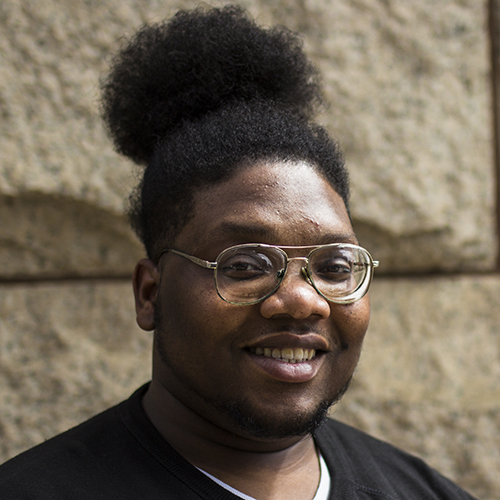
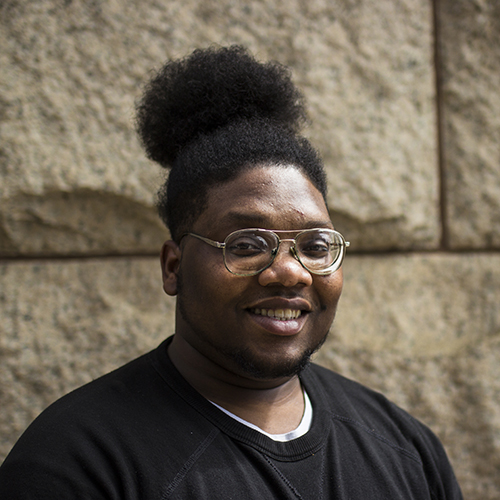
updated ryan photo and added 18 out fo 21 resumes

diff --git a/src/pages/Bootcamp/Roster/rosterMembersConfig.js b/src/pages/Bootcamp/Roster/rosterMembersConfig.js
@@ -58,7 +58,7 @@ import EngridImage from './RosterMemberImages/engrid.jpg';
 import VaughnImage from './RosterMemberImages/vaughn.jpg';
 import MyrahaImage from './RosterMemberImages/myraha.jpg';
 import JoshLBImage from './RosterMemberImages/josh_lb.jpg';
-// import JasonImage from './RosterMemberImages/jason.jpg';
+import JasonImage from './RosterMemberImages/jason.jpg';
 import VictorImage from './RosterMemberImages/victor.jpg';
 import DanicaImage from './RosterMemberImages/danica.jpg';
 import ZemamImage from './RosterMemberImages/zemam.jpg';
@@ -67,11 +67,11 @@ import SandraImage from './RosterMemberImages/sandra.jpg';
 import OmarImage from './RosterMemberImages/omar.jpg';
 import FernandoImage from './RosterMemberImages/fernando.jpg';
 import StandyImage from './RosterMemberImages/standy.jpg';
-// import TyriekImage from './RosterMemberImages/tyriek.jpg';
+import TyriekImage from './RosterMemberImages/tyriek.jpg';
 import RakimImage from './RosterMemberImages/rakim.jpg';
 import KeithImage from './RosterMemberImages/keith.jpg';
 import CristianImage from './RosterMemberImages/cristian.jpg';
-// import AlainImage from './RosterMemberImages/alain.jpg';
+import AlainImage from './RosterMemberImages/alain.jpg';
 import AliaImage from './RosterMemberImages/alia.jpg';
 import AllisonImage from './RosterMemberImages/allison.jpg';
 import EdwinImage from './RosterMemberImages/edwin.jpg';
@@ -85,7 +85,7 @@ export default [
     image: AliaImage,
     linkedin: 'https://www.linkedin.com/in/alia-abdulahi-188364155/',
     github: 'https://github.com/aliaabdulahi',
-    resume: '',
+    resume: 'https://cdn2.hubspot.net/hubfs/2253693/resumes/2018%20B/resume_aliaabdulahi.pdf',
     bio: `My first experience with technology was through my father, who taught himself to code and made 
     a game for me and my siblings to learn his native language. Technology, for me, has always been a tool 
     for communication, access, imagination, innovation, and belonging. As a professional storyteller with 
@@ -102,7 +102,7 @@ export default [
     image: JoshLBImage,
     linkedin: 'https://www.linkedin.com/in/joshlobaptista',
     github: 'https://github.com/joshlobaptista',
-    resume: '',
+    resume: 'https://cdn2.hubspot.net/hubfs/2253693/resumes/2018%20B/resume_joshualopesbaptista.pdf',
     bio: `Living in household with ten other children meant that competition was the way of life. 
     From who could finish dinner the fastest to who could hold their breath the longest. 
     Together we learned to work individually and as a team. During my senior year in high school, 
@@ -137,7 +137,7 @@ export default [
     image: OmarImage,
     linkedin: 'https://www.linkedin.com/in/oeaugustin',
     github: 'https://github.com/oeaugustin',
-    resume: '',
+    resume: 'https://cdn2.hubspot.net/hubfs/2253693/resumes/2018%20B/resume_omaraugustin.pdf',
     bio: `Creating striking visual experiences has always been a passion of mine. Growing up, 
     I continually exhausted my school's art curricula. Drawing, painting, photography, sculpture, 
     furniture and graphic design were a few of the media I utilized to express myself. In college, 
@@ -149,12 +149,12 @@ export default [
   },
   {
     url: '/bootcamp/roster/dee-daniels',
-    portfolioUrl: '',
+    portfolioUrl: 'deedaniels.co',
     name: 'Dee Daniels',
     image: DanicaImage,
     linkedin: 'https://www.linkedin.com/in/dee-daniels-29768839/',
     github: 'https://github.com/DeeDaniels',
-    resume: '',
+    resume: 'https://cdn2.hubspot.net/hubfs/2253693/resumes/2018%20B/resume_deedaniels.pdf',
     bio: `Dee Daniels is a Boston University Graduate with a B.S. in Journalism and a minor in 
     French Language. In the past few years, she has honed her leadership and collaboration skills 
     through coordinating and planning art festivals, music events, and working as the Program Coordinator 
@@ -170,7 +170,7 @@ export default [
     image: EdwinImage,
     linkedin: 'https://www.linkedin.com/in/edwinnaranjo',
     github: 'https://github.com/ENaranjo95',
-    resume: '',
+    resume: 'https://cdn2.hubspot.net/hubfs/2253693/resumes/2018%20B/resume_edwinnaranjo.pdf',
     bio: `I grew up in the states but I am known to be a proud Ecuadorian. My parents brought 
     culture, heart and vision into my life and I carried those values to pursue a higher degree 
     in business at the University of Massachusetts Lowell (UML). I was an active leader in the 
@@ -187,7 +187,7 @@ export default [
     image: ZemamImage,
     linkedin: 'https://www.linkedin.com/in/zemam-beyene/',
     github: 'https://github.com/beyenez',
-    resume: '',
+    resume: 'https://cdn2.hubspot.net/hubfs/2253693/resumes/2018%20B/resume_zemambeyene.pdf',
     bio: `I’m a recent college graduate from the University of Massachusetts Boston, with a major in 
     business management and a concentration in marketing.  In college, I focused on using data analytics 
     to develop techniques for business marketing decisions in order to improve businesses. 
@@ -204,7 +204,7 @@ export default [
     image: CristianImage,
     linkedin: 'https://www.linkedin.com/in/cristian-morales-7b9a0590/',
     github: 'https://github.com/cristianpmorales',
-    resume: '',
+    resume: 'https://cdn2.hubspot.net/hubfs/2253693/resumes/2018%20B/resume_cristianmorales.pdf',
     bio: `As a Business Systems Associate at Harvard University, I learned to identify user issues 
     and how to test to deliver the best product to a customer. In volunteering with my local organization 
     NUBE, I have represented neighbors that have been displaced by different legislations. I helped them by 
@@ -220,7 +220,7 @@ export default [
     image: EngridImage,
     linkedin: 'https://www.linkedin.com/in/engridhernandez/',
     github: 'https://github.com/ehcodes',
-    resume: '',
+    resume: 'https://cdn2.hubspot.net/hubfs/2253693/resumes/2018%20B/resume_engridhernandez.pdf',
     bio: `Growing up, my dad was a tech buff who worked in IT and we had a lot of niche gadgets 
     in the house. I remember him building himself a PC and not giving him a moment of silence 
     through all the questions I had for him. I wanted to know why each piece was needed, what 
@@ -238,7 +238,7 @@ export default [
     image: VaughnImage,
     linkedin: 'https://www.linkedin.com/in/vaughn-scarlett/',
     github: 'https://github.com/Vscarlett',
-    resume: '',
+    resume: 'https://cdn2.hubspot.net/hubfs/2253693/resumes/2018%20B/resume_vaughnscarlett.pdf',
     bio: `When I was a kid I was into technology and cars. I went to Universal technical Institute 
     to become an Automotive Technician. I graduated with honors and went into the workforce. 
     I spent the past 6 years being a technician in many dealerships, and found out that the 
@@ -255,7 +255,7 @@ export default [
     image: SandraImage,
     linkedin: 'https://www.linkedin.com/in/sandraattar',
     github: 'https://github.com/sandraattar',
-    resume: '',
+    resume: 'https://cdn2.hubspot.net/hubfs/2253693/resumes/2018%20B/resume_sandraattar.pdf',
     bio: `I am fortunate enough to call myself a citizen of the beautiful country of Syria. 
     Despite my challenges as an immigrant, I have learned to positively transform my journey. 
     Last fall, I began coaching elementary school students at Hatch Coding. One of my 
@@ -281,12 +281,12 @@ export default [
   },
   {
     url: '/bootcamp/roster/ryan-tillman-french',
-    portfolioUrl: '',
+    portfolioUrl: 'http://ryantfrench.bitballoon.com/',
     name: 'Ryan Tillman-French',
     image: RyanImage,
     linkedin: 'https://www.linkedin.com/in/ryantf/',
     github: 'https://github.com/ResilientRyry',
-    resume: '',
+    resume: 'https://cdn2.hubspot.net/hubfs/2253693/resumes/2018%20B/resume_ryantillmanfrench.pdf',
     bio: `A first generation college student coming from a single parent home, I’ve developed a craving 
     to challenge and prove statistics wrong. In my past roles, I have excelled by making my assignment 
     less complex and done efficiently.This determination to make a better life for myself motivated me 
@@ -302,7 +302,7 @@ export default [
     image: StandyImage,
     linkedin: 'https://www.linkedin.com/in/standymerizier/',
     github: 'https://github.com/StandyMerizier',
-    resume: '',
+    resume: 'https://cdn2.hubspot.net/hubfs/2253693/resumes/2018%20B/resume_standymerizier.pdf',
     bio: `Motivated and entrepreneur-minded individual with a passion for learning. I have a background in 
     software engineering from attending Fairfield University and Western Governors University. 
     I’m a strong believer in continuous improvement and seek opportunities where I can grow and polish my 
@@ -318,7 +318,7 @@ export default [
     image: AllisonImage,
     linkedin: 'https://www.linkedin.com/in/allison-abad/',
     github: 'https://github.com/allison-abad',
-    resume: '',
+    resume: 'https://cdn2.hubspot.net/hubfs/2253693/resumes/2018%20B/resume_allisonabad.pdf',
     bio: `Being a first generation child to immigrant parents has exposed me to the doubts of 
     others from both scopes of racial and gender profiling. Growing up with such minimal knowledge 
     of how to practice self love and having no leaders to look up to, I decided to become my own 
@@ -337,7 +337,7 @@ export default [
     image: RakimImage,
     linkedin: 'https://www.linkedin.com/in/rakim-craig/',
     github: 'https://github.com/rakimdevcraig',
-    resume: '',
+    resume: 'https://cdn2.hubspot.net/hubfs/2253693/resumes/2018%20B/resume_omaraugustin.pdf',
     bio: `At the age of fourteen I built a computer from scratch as part of a class project. 
     Since my parents weren’t able to afford one at the time, this became my first computer. 
     I spent hours using it and discovering the endless features. Technology gave me an outlet 
@@ -355,7 +355,7 @@ export default [
     image: KeithImage,
     linkedin: 'https://www.linkedin.com/in/keithmgoodrich/',
     github: 'https://github.com/KeithTheDev',
-    resume: '',
+    resume: 'https://cdn2.hubspot.net/hubfs/2253693/resumes/2018%20B/resume_keithmgoodrich.pdf',
     bio: `Growing up I never had a grasp on what I wanted to do with my future. I was raised with my 
     grandparents, and always enjoyed solving their technical needs. There wasn’t much discipline growing 
     up so I had to work on understanding why learning was so important for my development. After working 
@@ -370,7 +370,7 @@ export default [
     image: FernandoImage,
     linkedin: 'https://www.linkedin.com/in/fernando-rodriguez-4777222b/',
     github: 'https://github.com/Fjrodriguez787',
-    resume: '',
+    resume: 'https://cdn2.hubspot.net/hubfs/2253693/resumes/2018%20B/resume_fernandorodriguez.pdf',
     bio: `I am a Puerto Rico born, first generation, full-stack web developer. At a young age I realized 
     I had a passion for community engagement, education and equity. My most recent work experience at 
     Sociedad Latina was to engage and support 75 Boston Public High School seniors through their journey 
@@ -378,49 +378,54 @@ export default [
     lives. I want to target issues our communities face and become part of the solution through coding. 
     I look forward to working and growing with a driven development team.`
   },
-    // {
-  //   url: '/bootcamp/roster/tyriek-brown',
-  //   portfolioUrl: '',
-  //   name: 'Tyriek Brown',
-  //   image: TyriekImage,
-  //   linkedin: 'https://www.linkedin.com/in/tyriek-brown-ba962b163/',
-  //   github: '',
-  //   resume: '',
-  //   bio: `I was born in Boston, MA but always had a family back in Norfolk, Virginia. Traveling back and 
-  //   forth gave me a chance to explore both places. I soon developed a passion for capturing moments that 
-  //   tell a story in one photo. I’ve experimented with different lenses, learned editing tools, done countless 
-  //   photoshoots and I continue to love what a “still” moment can mean to an audience. I gravitated to 
-  //   Resilient Coders because of the ability to merge my creative background with software engineering. 
-  //   As a Full Stack Web Developer, I plan to bring your products to life. `
-  // },
-  // {
-  //   url: '/bootcamp/roster/alain-lafume',
-  //   portfolioUrl: 'http://alain-lafume.bitballoon.com/',
-  //   name: 'Alain Lafume',
-  //   image: AlainImage,
-  //   linkedin: 'https://www.linkedin.com/in/alain-lafume-312aab54/',
-  //   github: 'https://github.com/Blandaxt',
-  //   resume: '',
-  //   bio: `A few years after arriving in America, I received my first video game and fell in love 
-  //   with the complexity of how users interacted with pre-set stories. This fascination carried 
-  //   into my adulthood, where I played online games (MMORPG’s or MMOFPS) competitively. My favorite game, 
-  //   Fantasy Earth, unfortunately closed down due to its lack of proper security measures, thus making 
-  //   the site vulnerable to hackers. As a former computer science major, I decided it was time to pick up 
-  //   where I started and learn the best technologies used to protect programs from attacks. 
-  //   Now at Resilient Coders, I am taking the first step by becoming a full-stack developer. 
-  //   I would love the opportunity to create interactive products that are built with security in 
-  //   mind from the ground up.`
-  // },
-    // {
-  //   url: '/bootcamp/roster/jason-martinez',
-  //   portfolioUrl: '',
-  //   name: 'Jason Martinez',
-  //   image: JasonImage,
-  //   linkedin: 'https://www.linkedin.com/in/jason-martinez-8401aa163/',
-  //   github: 'https://github.com/JasonJayMar',
-  //   resume: '',
-  //   bio: ``
-  // },
+    {
+    url: '/bootcamp/roster/tyriek-brown',
+    portfolioUrl: '',
+    name: 'Tyriek Brown',
+    image: TyriekImage,
+    linkedin: 'https://www.linkedin.com/in/tyriek-brown-ba962b163/',
+    github: 'https://github.com/tyriekbrown',
+    resume: 'https://cdn2.hubspot.net/hubfs/2253693/resumes/2018%20B/resume_tybrown.pdf',
+    bio: `I was born in Boston, MA but always had a family back in Norfolk, Virginia. Traveling back and 
+    forth gave me a chance to explore both places. I soon developed a passion for capturing moments that 
+    tell a story in one photo. I’ve experimented with different lenses, learned editing tools, done countless 
+    photoshoots and I continue to love what a “still” moment can mean to an audience. I gravitated to 
+    Resilient Coders because of the ability to merge my creative background with software engineering. 
+    As a Full Stack Web Developer, I plan to bring your products to life. `
+  },
+  {
+    url: '/bootcamp/roster/alain-lafume',
+    portfolioUrl: 'http://www.alainlafume.website/',
+    name: 'Alain Lafume',
+    image: AlainImage,
+    linkedin: 'https://www.linkedin.com/in/alain-lafume-312aab54/',
+    github: 'https://github.com/Blandaxt',
+    resume: 'https://cdn2.hubspot.net/hubfs/2253693/resumes/2018%20B/resume_alainlafume%20.pdf',
+    bio: `A few years after arriving in America, I received my first video game and fell in love with the 
+    complexity of how users interacted with pre-set stories. This fascination carried into my adulthood, 
+    where I played online games (MMORPG’s or MMOFPS) competitively. My favorite game, Fantasy Earth, 
+    unfortunately closed down due to its lack of proper security measures, thus making the site vulnerable 
+    to hackers. As a former computer science major, I decided it was time to pick up where I started and 
+    learn the best technologies used to protect programs from attacks. Now at Resilient Coders, I am taking 
+    the first step by becoming a full-stack developer. I would love the opportunity to create interactive 
+    products that are built with security in mind from the ground up.`
+  },
+    {
+    url: '/bootcamp/roster/jason-martinez',
+    portfolioUrl: '',
+    name: 'Jason Martinez',
+    image: JasonImage,
+    linkedin: 'https://www.linkedin.com/in/jason-martinez-8401aa163/',
+    github: 'https://github.com/JasonJayMar',
+    resume: 'https://cdn2.hubspot.net/hubfs/2253693/resumes/2018%20B/resume_jasonmartinez.pdf',
+    bio: `Video games made me into who I am. When I was growing up, all I wanted to learn was how to make 
+    my own game. This led me to enroll in the Computer and Gaming Simulation program at Bunker Hill College. 
+    Sadly after two years, I wasn't getting any closer to becoming a developer. But that wasn't going to 
+    stop me from pursuing my passion, so I built my own computer and joined Resilient Coders. My final 
+    project is a full stack manga website with animation on every box. It's going to be the start of 
+    something big and I know will put smiles on a lot of anime lovers. As a full-stack developer, 
+    I want to build products that make people happy.`
+  },
 
 
   // {
